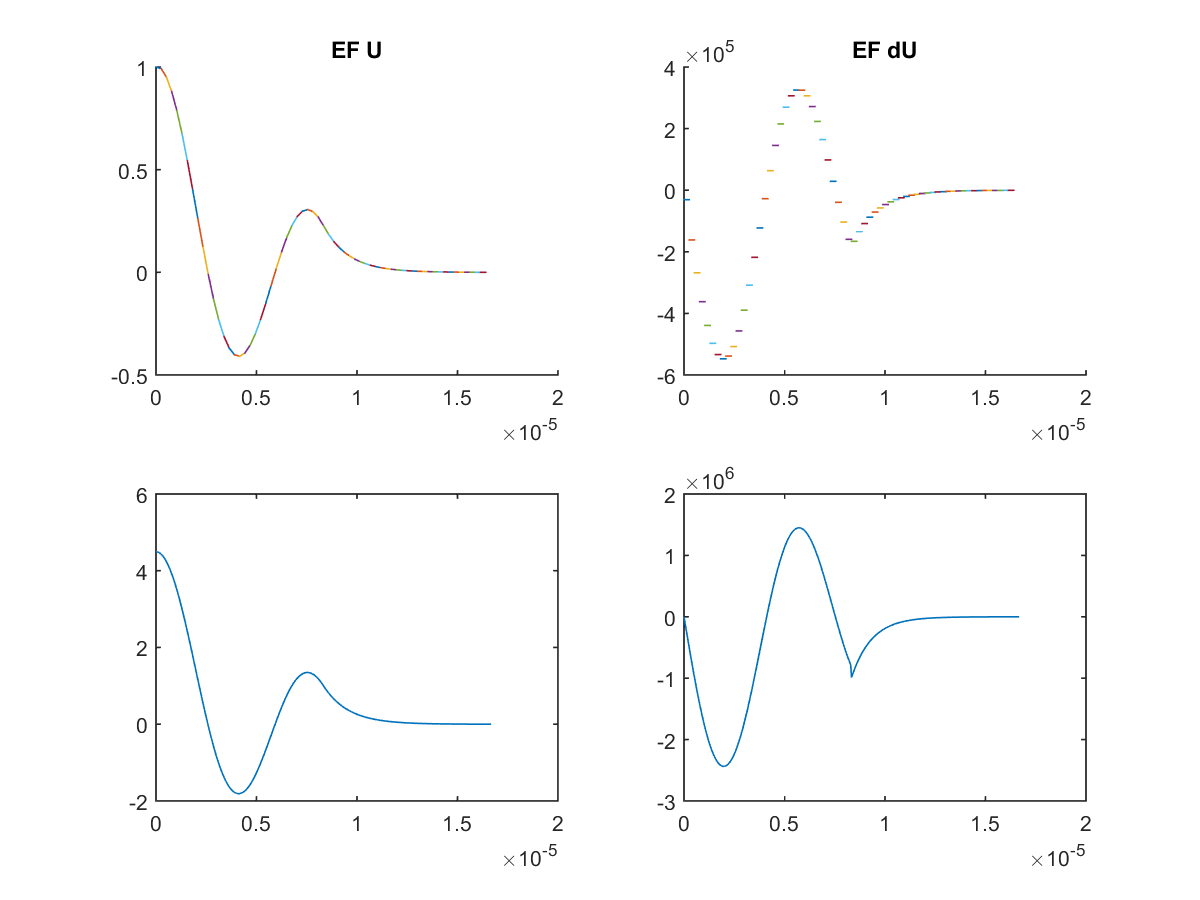
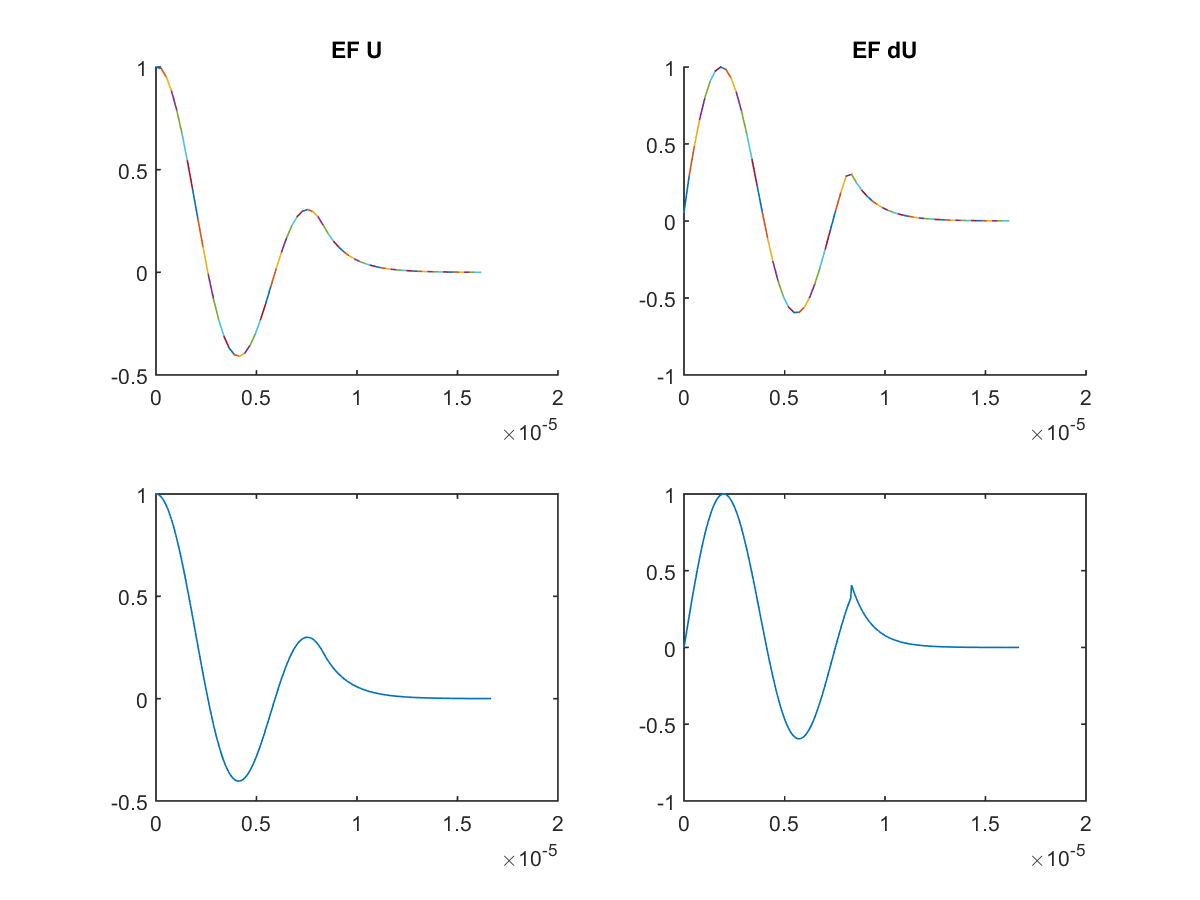
fix graphs

diff --git a/postProcFibre.m b/postProcFibre.m
@@ -1,58 +1,80 @@
-function [uEF, duEF, xEF] = postProcFibre(nEls,nodes,connect,elDof,dFreedom,pDeg,pType,u, fig)
-%plot the solution u and its derivative
-if fig
-	figure
-end
-for ne=1:nEls
-    for i=1:elDof(ne)
-        c=dFreedom(ne,i);
-        uL(ne,i)=u(c);
-    end
-end
-duu=zeros(nEls-1,1);
-for ne=1:nEls
-    nx=10;
-    u=zeros(nx,1);
-    du=zeros(nx,1);
-    x1=nodes(connect(ne,1));
-    x2=nodes(connect(ne,2));
-    h=x2-x1;
-    jac=2/h;
-    x=(x1:(x2-x1)/(nx-1):x2);
-    xi=(-1:2/(nx-1):1);
-    for j=1:nx
-        [N,dN]=shape(xi(j),ne,pDeg,pType);
-        dN=dN*jac;
-        for i=1:elDof(ne)
-            u(j)=u(j)+N(i)*uL(ne,i);
-            du(j)=du(j)+dN(i)*uL(ne,i);
-            %             if i==1 && j==1 && ne==1
-            %                 duu(1)=du(1);
-            %                 test=du
-            %             end
-            %             if ne>1
-            %                 duu(ne)=du(end);
-            %             end
-        end
-    end
-
+function [uEF, duEF, xEF] = postProcFibre(nEls,nodes,connect,elDof,dFreedom,pDeg,pType,u, phir, dphir, r, p, fig)
+	%plot the solution u and its derivative
 	if fig
-	    subplot(1,2,1)
-	    hold on
-	    axis square
-	    plot(x,u)
-	    subplot(1,2,2)
-	    hold on
-	    axis square
-	    plot(x,du)
+		img = figure;
+	end
+	for ne=1:nEls
+	    for i=1:elDof(ne)
+	        c=dFreedom(ne,i);
+	        uL(ne,i)=u(c);
+	    end
+	end
+	duu=zeros(nEls-1,1);
+	for ne=1:nEls
+	    nx=10;
+	    u=zeros(nx,1);
+	    du=zeros(nx,1);
+	    x1=nodes(connect(ne,1));
+	    x2=nodes(connect(ne,2));
+	    h=x2-x1;
+	    jac=2/h;
+	    x=(x1:(x2-x1)/(nx-1):x2);
+	    xi=(-1:2/(nx-1):1);
+	    for j=1:nx
+	        [N,dN]=shape(xi(j),ne,pDeg,pType);
+	        dN=dN*jac;
+	        for i=1:elDof(ne)
+	            u(j)=u(j)+N(i)*uL(ne,i);
+	            du(j)=du(j)+dN(i)*uL(ne,i);
+	            %             if i==1 && j==1 && ne==1
+	            %                 duu(1)=du(1);
+	            %                 test=du
+	            %             end
+	            %             if ne>1
+	            %                 duu(ne)=du(end);
+	            %             end
+	        end
+	    end
+
+		% if fig
+		%     subplot(2,2,1)
+		% 	title('EF U')
+		%     hold on
+		%     plot(x,u)
+		%     subplot(2,2,2)
+		% 	title('EF dU')
+		%     hold on
+		%     plot(x,du)
+		% end
+
+		uEF(ne) = u(1);
+	    duEF(ne) = du(1);
+		xEF(ne) = x(1);
 	end
 
-    uEF((ne-1)*(nx-1)+(1:(nx-1))) = u(1:(nx-1));
-    duEF((ne-1)*(nx-1)+(1:(nx-1))) = du(1:(nx-1));
-    xEF((ne-1)*(nx-1)+(1:(nx-1))) = x(1:(nx-1));
-    if ne==nEls
-        uEF((ne-1)*(nx-1)+(1:(nx))) = u(1:(nx));
-        duEF((ne-1)*(nx-1)+(1:(nx))) = du(1:(nx));
-        xEF((ne-1)*(nx-1)+(1:(nx))) = x(1:(nx));
-    end
+	if fig
+		[PHI, u] = normalise(phir, uEF, false);
+		[dPHI, du] = normalise(dphir, duEF, false);
+		for i = 2:length(uEF)
+		    subplot(2,2,1)
+		    hold on
+		    plot(xEF(i-1:i),u(i-1:i))
+		    subplot(2,2,2)
+		    hold on
+		    plot(xEF(i-1:i),du(i-1:i))
+		end
+
+		subplot(2,2,1)
+		title('EF U')
+		subplot(2,2,2)
+		title('EF dU')
+		subplot(2,2,3)
+		title('Exacte U')
+		plot(r,PHI)
+		subplot(2,2,4)
+		title('Exacte dU')
+		plot(r, dPHI)
+
+		saveImg(img, strcat('ef_vs_exact_p', num2str(p)));
+	end
 end

diff --git a/main.m b/main.m
@@ -78,12 +78,12 @@ for j = 1:length(p)
 	subplot(2, 1, 1)
 	title(strcat('Analyse erreurs avec p = ', num2str(p(j))))
 	hold on
-	plot(h, TauxEL2)
-	plot(h, TauxEH1)
+	plot(1./h, TauxEL2)
+	plot(1./h, TauxEH1)
 	hold off
 	legend('L2', 'H1', 'location', 'best')
 	ylabel('\alpha(h)')
-	xlabel('h')
+	xlabel('1/h')
 
 	subplot(2, 1, 2)
 	hold on
@@ -97,9 +97,9 @@ for j = 1:length(p)
 	figBeta = figure;
 	subplot(2, 1, 1)
 	title(strcat('Analyse Vecteurs Propres avec p = ', num2str(p(j))))
-	plot(h, TauxBeta)
+	plot(1./h, TauxBeta)
 	ylabel('\alpha(h)')
-	xlabel('h')
+	xlabel('1/h')
 
 	subplot(2, 1, 2)
 	loglog(1./h, EBeta)

diff --git a/L2.m b/L2.m
@@ -11,23 +11,23 @@ function [norme] = L2(uh, xh, ut, xt, nEls, xMax, xMin)
 	% premier points
 	k=1;
 	xe(k) = xh(1);
-	X(1) = xe(k);
 	uhj = uh(1);
 	utj = interp1(xt, ut, xe(k));
 	e(k) = (utj - uhj) ^ 2;
 
 	dxG = (xMax - xMin) / (nEls * nG);
 
-	for i = 2: length(nEls)
+	for i = 1: length(nEls)
 		X(i) = xe(k);
 		for j = 1:nG
 			k = k + 1;
-			xe(k) = X(i-1) + j * dxG;
+			xe(k) = X(i) + j * dxG;
 			uhj = interp1(xh, uh, xe(k));
 			utj = interp1(xt, ut, xe(k));
 			e(k) = (utj - uhj) ^ 2;
-			if isnan(e(k))
+			if isnan(e(k)) || isnan(xe(k))
 				k = k-1;
+				error('fuck this shit')
 			end
 		end
 	end

diff --git a/H1.m b/H1.m
@@ -18,8 +18,8 @@ function [norme] = H1(uh, Duh, xh, ut, Dut, xt, nEls, xMax, xMin)
 		[Dut, Duh] = normalise(Dut, Duh, false);
 
 		% calculs normes L2
-		nEp = L2(Duh, xh(1:length(Duh)), Dut, xt(1:length(Dut)), nG);
-		nE = L2(uh, xh, ut, xt, nG);
+		nEp = L2(Duh, xh(1:length(Duh)), Dut, xt(1:length(Dut)),  nEls, xMax, xMin);
+		nE = L2(uh, xh, ut, xt,  nEls, xMax, xMin);
 
 		% calcul norme H1
 		norme = sqrt(nE^2 + nEp^2);
